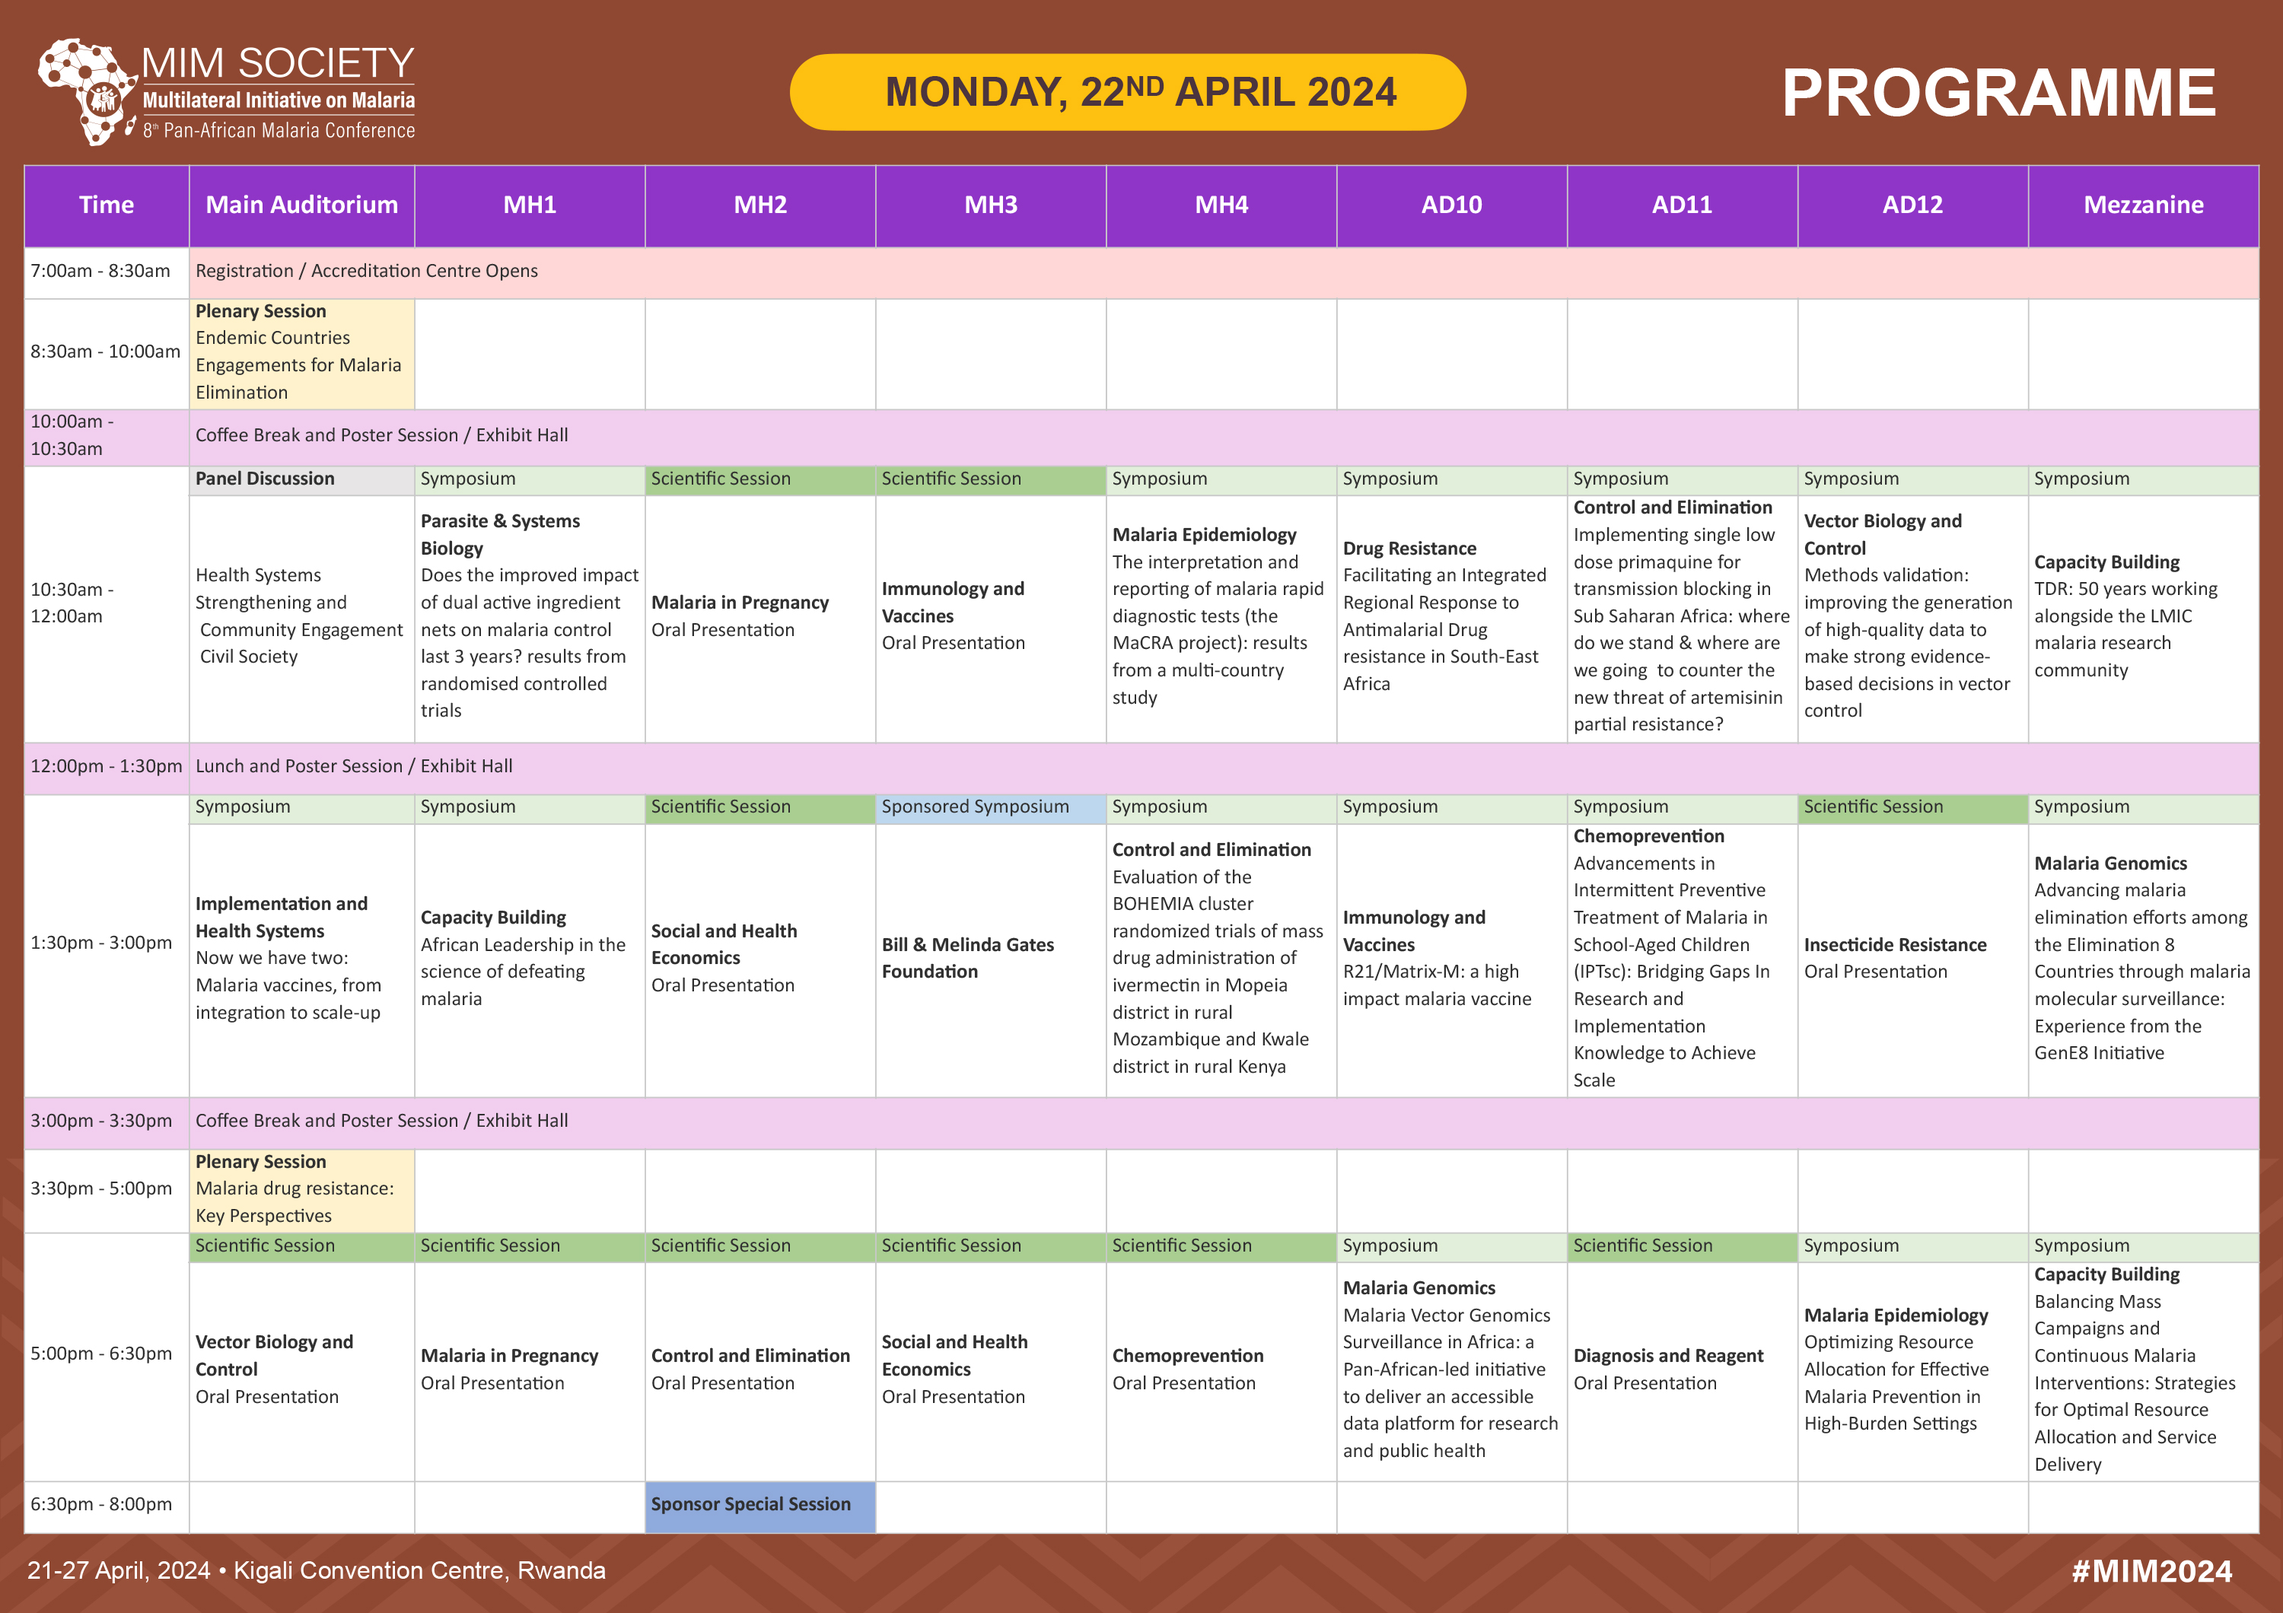
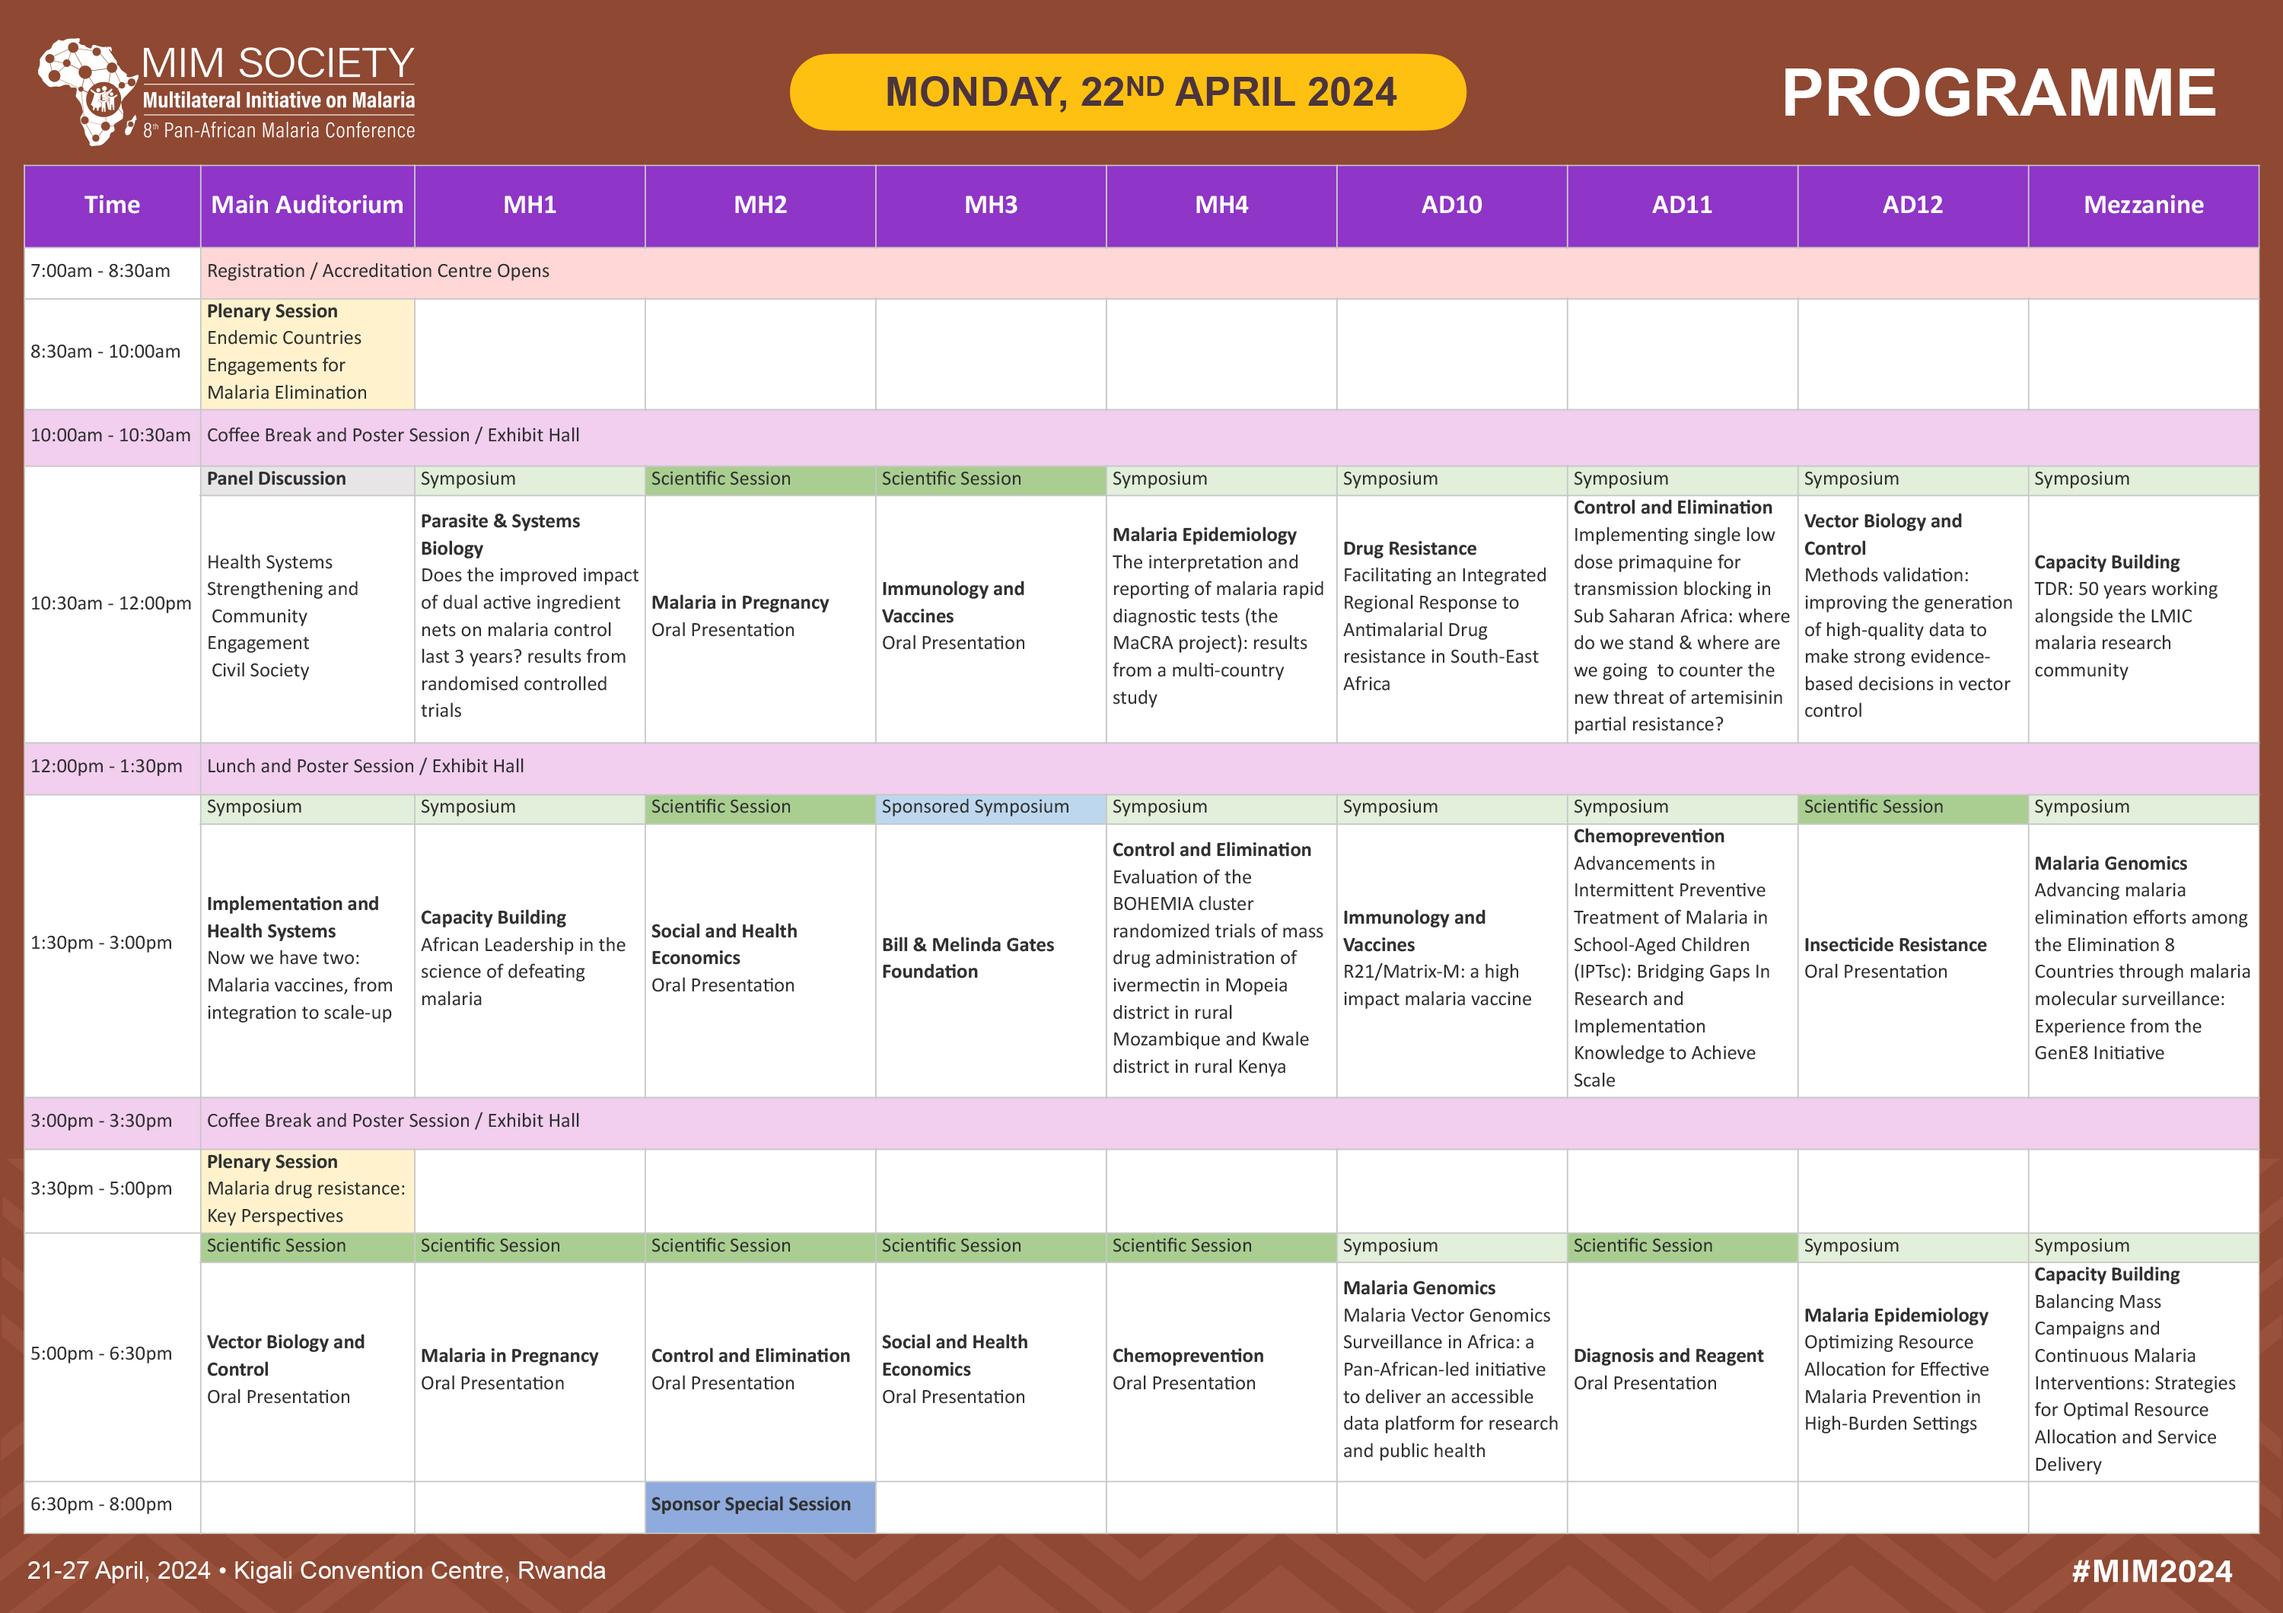
program

diff --git a/program.html b/program.html
@@ -279,7 +279,7 @@
               >
                 <div class="row flex-md-row mb bg-body-tertiary mt-2">
                   <img
-                    src="lib/images/photos/MIM2024Program-2.png"
+                    src="lib/images/photos/MIM2024Program-2.jpg"
                     alt="Program"
                     class="img-fluid col-lg-12 mx-auto"
                   />
